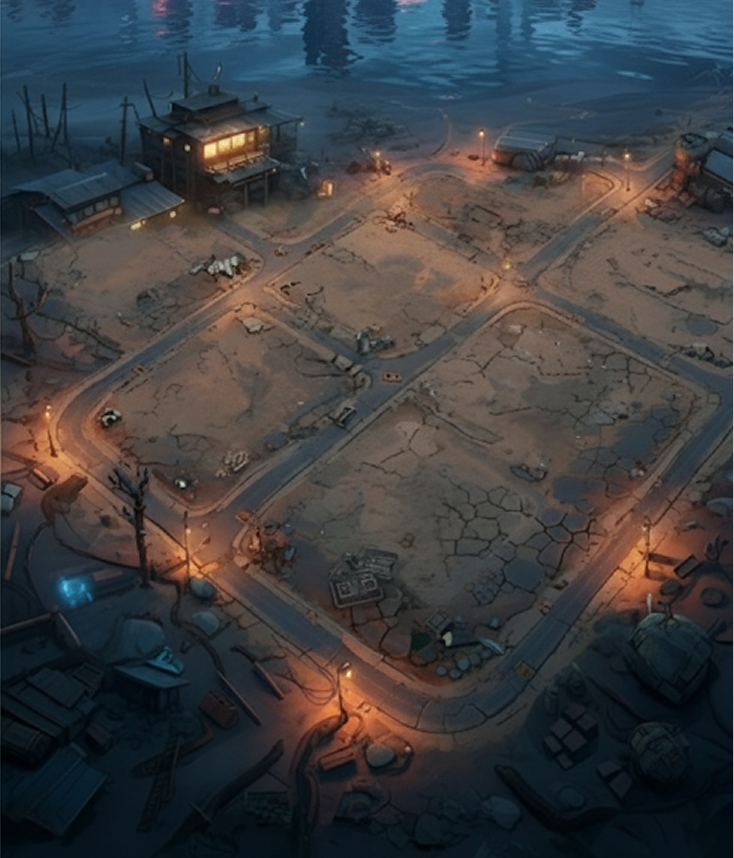
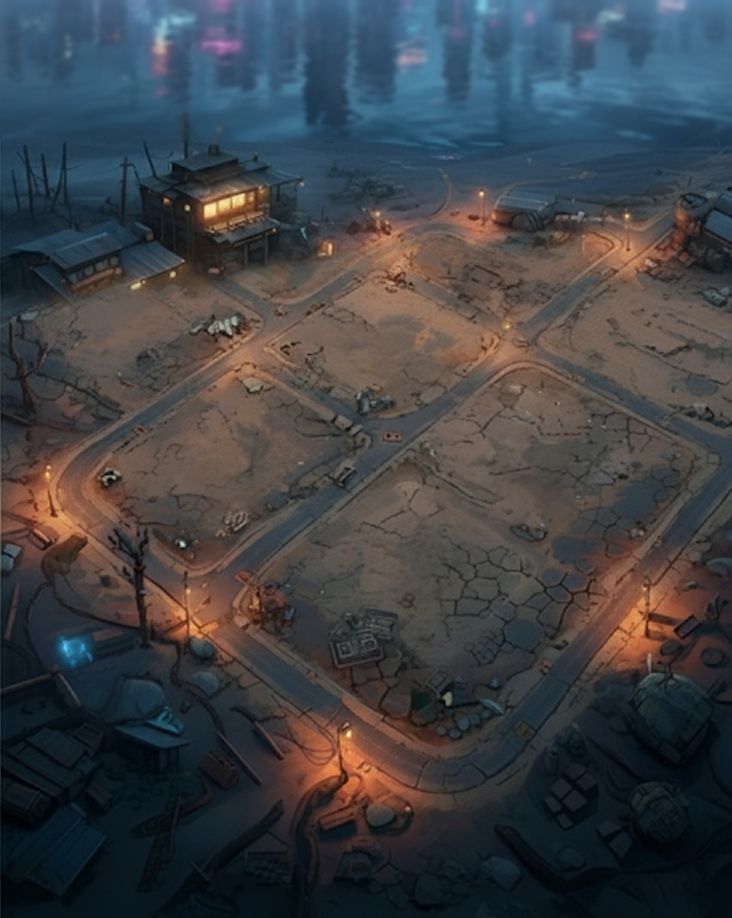
Refactor code structure for improved readability and maintainability

diff --git a/src/components/CyberFarmEvo/CyberFarmEvoMap/CyberFarmEvoMap.tsx b/src/components/CyberFarmEvo/CyberFarmEvoMap/CyberFarmEvoMap.tsx
@@ -20,39 +20,42 @@ import {
 const CyberFarmEvoMap = () => {
   return (
     <section className={styles.cyberFarmEvoMap}>
-      <Link
-        to={`${cyberFarmEvoPagePath}/${cyberFarmSupportPagePath}`}
-        className={`${styles.cyberFarmEvoMap__btn} ${styles.cyberFarmEvoMap__btn_tasks}`}
-      >
-        <ImageWebp
-          srcSet={farmMapTasksBuildWebpImage}
-          src={farmMapTasksBuildImage}
-          alt={"tasks"}
-        />
-        <span>Задания</span>
-      </Link>
-      <Link
-        to={`${cyberFarmEvoPagePath}/${cyberFarmWarehousePagePath}`}
-        className={`${styles.cyberFarmEvoMap__btn} ${styles.cyberFarmEvoMap__btn_warehouse}`}
-      >
-        <ImageWebp
-          srcSet={farmMapCityWareHouseWebpImage}
-          src={farmMapCityWareHouseImage}
-          alt={"warehouse"}
-        />
-        <span>Склад</span>
-      </Link>
-      <Link
-        to={`${cyberFarmEvoPagePath}/${cyberFarmFarmsPagePath}`}
-        className={`${styles.cyberFarmEvoMap__btn} ${styles.cyberFarmEvoMap__btn_farm}`}
-      >
-        <ImageWebp
-          srcSet={farmMapFarmBuildWebpImage}
-          src={farmMapFarmBuildImage}
-          alt={"farm"}
-        />
-        <span>Ферма</span>
-      </Link>
+      <div className={styles.cyberFarmEvoMap__city}></div>
+      <div className={styles.cyberFarmEvoMap__main}>
+        <Link
+          to={`${cyberFarmEvoPagePath}/${cyberFarmSupportPagePath}`}
+          className={`${styles.cyberFarmEvoMap__btn} ${styles.cyberFarmEvoMap__btn_tasks}`}
+        >
+          <ImageWebp
+            srcSet={farmMapTasksBuildWebpImage}
+            src={farmMapTasksBuildImage}
+            alt={"tasks"}
+          />
+          <span>Задания</span>
+        </Link>
+        <Link
+          to={`${cyberFarmEvoPagePath}/${cyberFarmWarehousePagePath}`}
+          className={`${styles.cyberFarmEvoMap__btn} ${styles.cyberFarmEvoMap__btn_warehouse}`}
+        >
+          <ImageWebp
+            srcSet={farmMapCityWareHouseWebpImage}
+            src={farmMapCityWareHouseImage}
+            alt={"warehouse"}
+          />
+          <span>Склад</span>
+        </Link>
+        <Link
+          to={`${cyberFarmEvoPagePath}/${cyberFarmFarmsPagePath}`}
+          className={`${styles.cyberFarmEvoMap__btn} ${styles.cyberFarmEvoMap__btn_farm}`}
+        >
+          <ImageWebp
+            srcSet={farmMapFarmBuildWebpImage}
+            src={farmMapFarmBuildImage}
+            alt={"farm"}
+          />
+          <span>Ферма</span>
+        </Link>
+      </div>
     </section>
   );
 };

diff --git a/src/components/CyberFarmEvo/CyberFarmEvoMap/CyberFarmEvoMap.module.scss b/src/components/CyberFarmEvo/CyberFarmEvoMap/CyberFarmEvoMap.module.scss
@@ -2,15 +2,45 @@
 @import "../../../styles/vars";
 
 .cyberFarmEvoMap {
-  position: relative;
   width: 100%;
   height: 100%;
-  @include bgWebp(
-    "../../../assets/images/CyberFarmEvo//Map/farmMapBg.jpg",
-    "../../../assets/images/CyberFarmEvo//Map/farmMapBg.webp"
-  );
-  background-size: cover;
-  background-position: top;
+  display: flex;
+  flex-direction: column;
+  &__city {
+    flex: 1;
+    @include bgWebp(
+      "../../../assets/images/CyberFarmEvo//Map/farmMapCity.jpg",
+      "../../../assets/images/CyberFarmEvo//Map/farmMapCity.webp"
+    );
+    background-size: cover;
+    background-position: bottom;
+    margin-bottom: -1px;
+    position: relative;
+
+    &::after {
+      content: "";
+      position: absolute;
+      bottom: 0;
+      left: 0;
+      width: 100%;
+      background-color: #436d8d;
+      height: 30px;
+      transform: translateY(50%);
+      z-index: 3;
+      filter: blur(10px);
+    }
+  }
+  &__main {
+    position: relative;
+    width: 100%;
+    @include bgWebp(
+      "../../../assets/images/CyberFarmEvo//Map/farmMapMainBg.jpg",
+      "../../../assets/images/CyberFarmEvo//Map/farmMapMainBg.webp"
+    );
+    background-size: cover;
+    background-position: bottom;
+    aspect-ratio: 488/612;
+  }
 
   &__btn {
     @include button();
@@ -25,20 +55,15 @@
 
     &_tasks {
       left: 4%;
-      bottom: 31%;
+      bottom: 52%;
     }
     &_warehouse {
-      bottom: 36%;
-      right: 10%;
+      bottom: 52%;
+      right: 0%;
     }
     &_farm {
-      bottom: 10%;
-      right: 16%;
-    }
-    &_city {
-      img {
-        width: clamp(30px, 30vw, 150px);
-      }
+      bottom: 20%;
+      right: 26%;
     }
 
     &:active {
@@ -46,8 +71,17 @@
     }
 
     & img {
+      transition: all 0.1s;
+    }
+    &_tasks img {
       width: clamp(30px, 30vw, 150px);
-      transition: $transition;
+    }
+
+    &_warehouse img {
+      width: clamp(30px, 20vw, 120px);
+    }
+    &_farm img {
+      width: clamp(30px, 32vw, 180px);
     }
 
     &:hover,

diff --git a/src/assets/imageMaps/cyberfarmEvoImages.ts b/src/assets/imageMaps/cyberfarmEvoImages.ts
@@ -10,16 +10,10 @@ import cybefarmEvoFieldWebpImage from "../images/CyberFarmEvo/Farms/cybefarmEvoF
 import cybefarmEvoFieldImage from "../images/CyberFarmEvo/Farms/cybefarmEvoField.png";
 import farmMapCityWebpImage from "../images/CyberFarmEvo/Map/farmMapCity.webp";
 import farmMapCityImage from "../images/CyberFarmEvo/Map/farmMapCity.jpg";
-import farmMapMainBgImage from "../images/CyberFarmEvo/Map/farmMapMainBg.jpg";
-import farmMapMainBgWebpImage from "../images/CyberFarmEvo/Map/farmMapMainBg.webp";
 
 export {
   farmMapBgImage,
   farmMapBgWebpImage,
-  farmMapCityWebpImage,
-  farmMapCityImage,
-  farmMapMainBgImage,
-  farmMapMainBgWebpImage,
   farmMapCityWareHouseImage,
   farmMapCityWareHouseWebpImage,
   farmMapFarmBuildImage,
@@ -28,4 +22,6 @@ export {
   farmMapTasksBuildWebpImage,
   cybefarmEvoFieldWebpImage,
   cybefarmEvoFieldImage,
+  farmMapCityWebpImage,
+  farmMapCityImage,
 };
